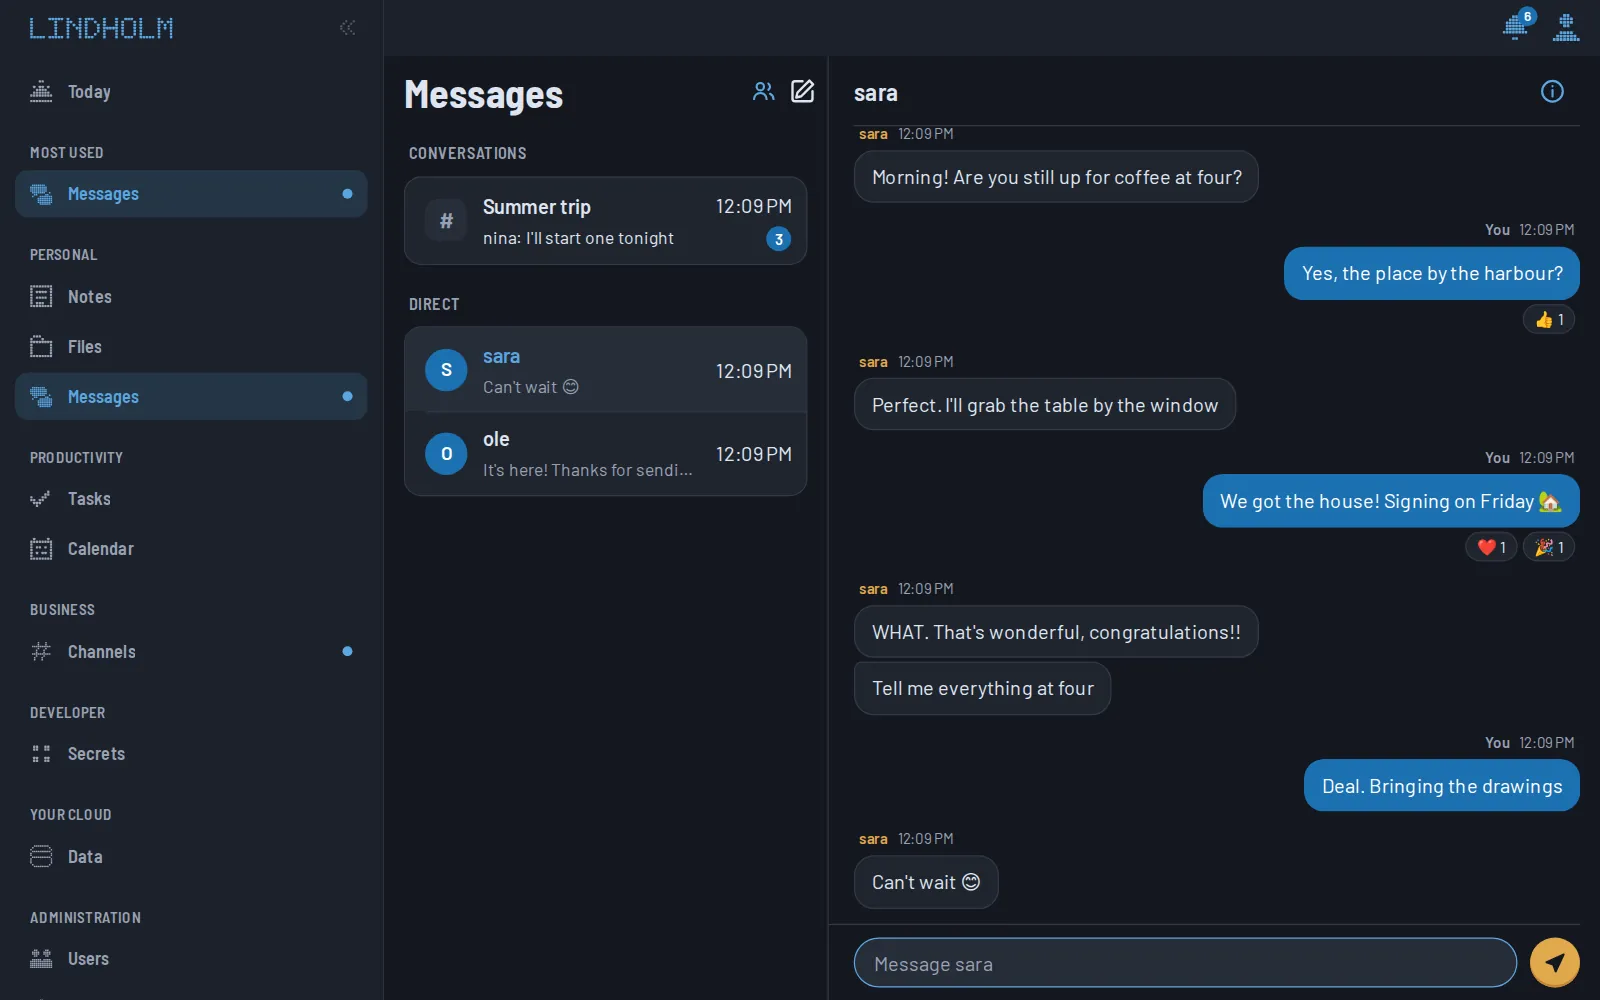
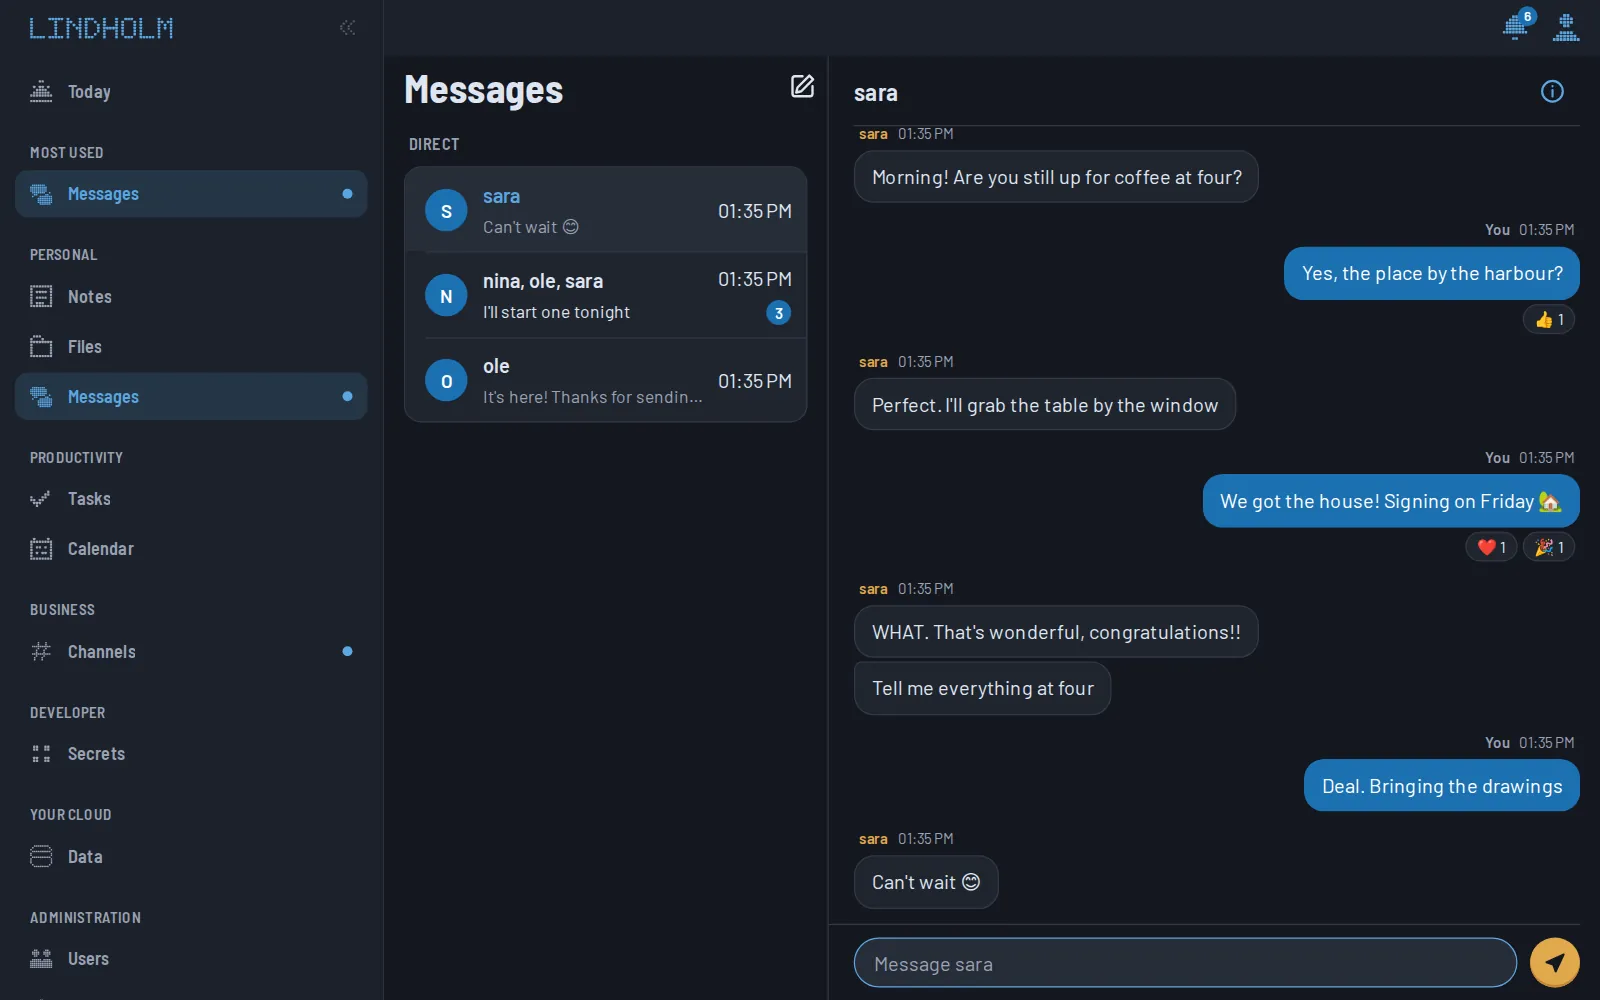
Messages 1.1.0: a new message is to the people you pick
The pen is a To box: pick one person or several, each a pill with an X,
and the conversation with exactly those people opens — the one there is,
from any side, or a new one. Nothing is made by name any more (made_as is
direct alone), so the people icon and the group form are gone; the core's
thread kit draws the picker (core PR #132). README, features, tests and
all three screenshots follow.

diff --git a/tests/test_quill.py b/tests/test_quill.py
@@ -44,7 +44,8 @@ def found_between(q, *others, kind="direct"):
 def test_the_manifest_is_one_thread_of_conversations_between_people(q):
     (screen,) = q.manifest.screens
     assert screen["kit"] == "thread" and screen["model"] == MESSAGE and screen["space"] == "conversation"
-    assert screen["made_as"] == {"direct": {"kind": "direct"}, "shared": {"kind": "group"}}
+    # Between people and no other way: the kit's pen is the To box, nothing is made by name.
+    assert screen["made_as"] == {"direct": {"kind": "direct"}}
     assert screen["reactions"] == REACTION
     assert q.manifest.category == "personal"
 
@@ -67,11 +68,14 @@ def test_what_is_written_is_read_by_the_people_in_it_and_nobody_else(q):
     assert ole.list(MESSAGE, conversation=ours.id) == []
 
 
-def test_a_group_is_named_and_everybody_in_it_reads_it(q):
+def test_a_conversation_with_several_people_is_everybody_in_it(q):
     sara, ole = q.as_user("sara"), q.as_user("ole")
-    trip = between(q, "sara", "ole", name="Summer trip", kind="group")
-    assert trip["name"] == "Summer trip" and trip["kind"] == "group"
-    assert [c["name"] for c in ole.list(CONVERSATION)] == ["Summer trip"]
+    trip = between(q, "sara", "ole")
+    assert trip["kind"] == "direct" and sorted(trip.members) == ["ole", "sara"]
+    assert [c.id for c in ole.list(CONVERSATION)] == [trip.id]
+    # The same people again is the same conversation, from any side.
+    assert found_between(ole, q.user, "sara") == trip.id
+    assert found_between(q, "sara") is None  # not the one with Sara alone
     sara.seed(MESSAGE, conversation=trip.id, body="who brings the tent?")
     assert [m["body"] for m in ole.list(MESSAGE, conversation=trip.id)] == ["who brings the tent?"]
 

diff --git a/README.md b/README.md
@@ -1,12 +1,12 @@
 # Messages
 
 Conversations with the people on your cloud, the way a phone's messages
-are: one with each person, there the moment you pick them, and groups you
-name. Kept on your own cloud, and nowhere else.
+are: pick who it is to, one person or several, and the conversation with
+exactly them is there. Kept on your own cloud, and nowhere else.
 
 A [Quill](https://github.com/Cloudmorrow/cloudmorrow/blob/main/docs/QUILLS.md)
 for Cloudmorrow: install it from the Quill Catalog, or from this repository
-with `cm quill add --source https://github.com/Cloudmorrow/quill-messages --ref v1.0.0`.
+with `cm quill add --source https://github.com/Cloudmorrow/quill-messages --ref v1.1.0`.
 
 <p>
 <img src="screenshots/messages-desktop.webp" width="560" alt="Messages in a browser: the conversations down the left with what is unread in each, the open one beside them with the newest message at the bottom and a reaction under a line, and the box to write in on the floor">
@@ -16,12 +16,15 @@ with `cm quill add --source https://github.com/Cloudmorrow/quill-messages --ref 
 
 (A throwaway cloud made for the pictures, named after nobody real.)
 
-- **One conversation with each person.** Pick somebody and the conversation
-  with them is there, whether or not it existed a moment ago; them picking
-  you finds the same one. It is called after them.
-- **Groups.** Name one and put people in it. There is no invitation to
-  accept: you are added, you are told, and you can leave. Anybody in it can
-  add somebody; its maker (or an administrator) renames or deletes it.
+- **A new message is to the people you pick.** The pen opens a To box:
+  tap a person in the list under it and they become a pill in the box,
+  with an X that takes them out again; one person, or several. Then you are
+  in the conversation with exactly those people, writing.
+- **The conversation is already there.** Pick somebody you have written
+  to and the conversation with them opens, whether or not it existed a
+  moment ago; them picking you finds the same one. The same people again,
+  in any order, from any side, is the same conversation. It is called after
+  the others in it.
 - **Reactions.** One tap puts your ❤ on a message; yours again takes it
   back. Six to choose from, counted under the line.
 - **Unread, and a push.** What you have not read is counted beside each
@@ -38,43 +41,45 @@ with `cm quill add --source https://github.com/Cloudmorrow/quill-messages --ref 
 ## Messages and Channels
 
 [Channels](https://github.com/Cloudmorrow/quill-channels) is a team's rooms:
-`#general` that everybody is in, private channels, threads, mentions and
-pinned messages. Messages is between people: a conversation is the people
-in it and nobody else, there is no room everybody is in, and nothing is
-pinned. They keep their own conversations and messages; install both and
-each is what it is.
+`#general` that everybody is in, named channels with people added and
+taken out, threads, mentions and pinned messages. Messages is between
+people: a conversation is the people in it and nobody else — nothing is
+named, nothing is joined or left, there is no room everybody is in, and
+nothing is pinned. They keep their own conversations and messages; install
+both and each is what it is.
 
 ## Using it
 
 A conversation is its people, and that *is* the access rule: whoever is in
-it reads it and writes in it, and nobody else sees that it exists.
-
-- **With one person.** Never made from a form. Pick `sara` and the
-  conversation with her is there, whether or not it was a moment ago;
-  `sara` picking you finds the same one.
-- **A group.** Made from the pen: a name, and the people in it. Anybody in
-  it adds somebody; anybody leaves; its maker renames or deletes it.
+it reads it and writes in it, and nobody else sees that it exists. It is
+never made from a form: pick who it is to and it is there — `sara` alone,
+or `sara` and `ole` — whether or not it was a moment ago, and the others
+picking you finds the same one. A conversation stays the people it was
+made between: to write to somebody else as well, pick them all and that is
+another conversation.
 
 Everyone can write to everyone on the server; there is no setting for that.
 
 **Unread** is when you last looked: everything somebody else wrote after
 that is unread, and opening the conversation, on any device, moves it on.
-Writing in a conversation reads it. Somebody added to a group counts from
-when they were added.
+Writing in a conversation reads it.
 
 #### In the web app
 
 The **Messages** tab: the conversations, with what is unread in each, then
 the open one, newest at the bottom; on a computer both side by side. The
-people icon beside the title picks a person and opens the conversation
-between you; the pen makes a group. Tap a message for its reactions. Push
-wakes the app the moment somebody writes.
+pen beside the title is a new message: a **To:** box, and everybody under
+it — tap a name and it is a pill in the box, tap the pill's X and it is
+out; type to narrow the list, Enter takes the one name left. *Write to
+Sara and Ole* opens the conversation with exactly them. Tap a message for
+its reactions. Push wakes the app the moment somebody writes.
 
 #### In the terminal app
 
 The **Messages** card: the conversations on the left, the open one on the
-right. `m` writes to one person, `n` makes a group, `a` adds somebody,
-`l` leaves, `e` renames or deletes one of yours; on a line, `x` reacts.
+right. `n` is a new message: space ticks the people it is to, the To line
+says who, Enter opens the conversation with them. `e` deletes one of
+yours; on a line, `x` reacts.
 
 #### On the command line
 
@@ -85,8 +90,8 @@ cm messages say sara "coffee at four?"
 cm messages react sara 3f2a ❤        a line is named by the start of its id, as show prints it
 ```
 
-A conversation is named by the person (or the group's name); `show` prints
-each line's id in the margin.
+A conversation is named by the people in it (`sara`, or `ole, sara`);
+`show` prints each line's id in the margin.
 
 ## Where it goes
 
@@ -120,7 +125,7 @@ outside your server.
 
 | | |
 | --- | --- |
-| Datamodels | introduces `messages.conversation` (a space between people), `messages.message` and `messages.reaction` |
+| Datamodels | introduces `messages.conversation` (a space between the people picked), `messages.message` and `messages.reaction` |
 | Screens | Messages, a thread of conversations, on the phone, the web app, the terminal, `cm messages`, and to your assistant |
 | Code | none: everything is declared, and the core's spaces and thread kit do the rest; reaches nothing outside |
 
